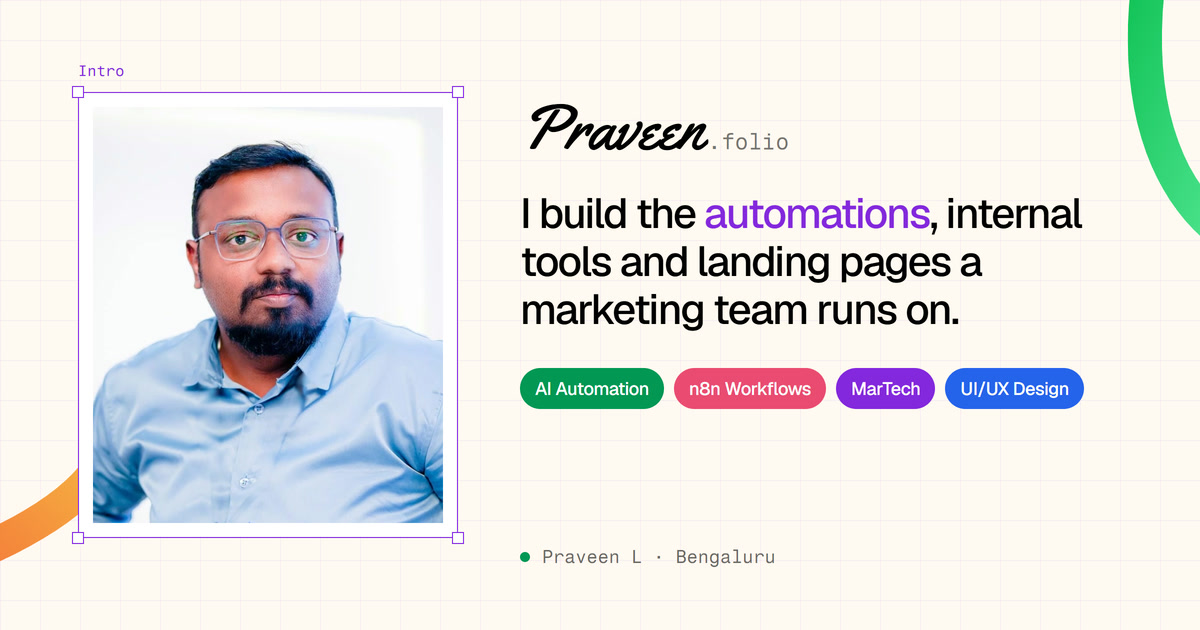
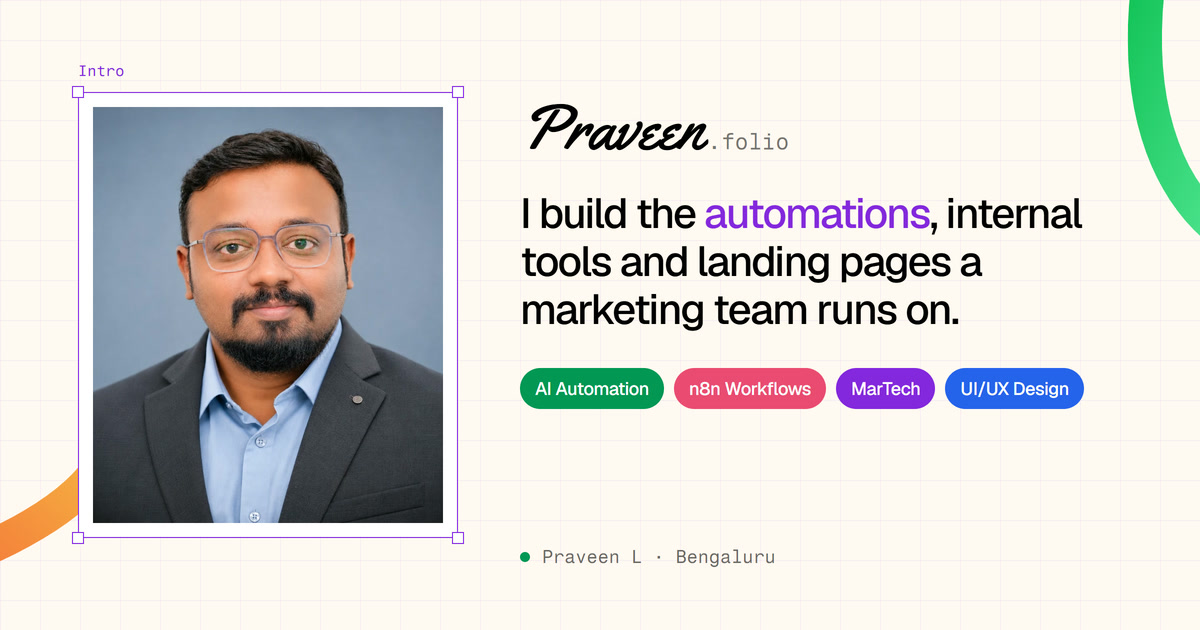
New professional headshot on hero, About and link preview

Changed region(s): [[0.0617, 0.1508, 0.37, 0.8444]]

diff --git a/project.html b/project.html
@@ -23,7 +23,7 @@
 <link rel="preconnect" href="https://fonts.googleapis.com"><link rel="preconnect" href="https://fonts.gstatic.com" crossorigin>
 <link href="https://fonts.googleapis.com/css2?family=Geist:wght@500&family=Inter:wght@400;500;600;700&family=Yellowtail&family=Fragment+Mono&display=swap" rel="stylesheet">
 <script src="https://unpkg.com/@phosphor-icons/web@2.1.1"></script>
-<link rel="stylesheet" href="css/style.css?v=202611102134">
+<link rel="stylesheet" href="css/style.css?v=202611102145">
 </head>
 <body data-page="work">
 <main class="detail"><div class="dwrap" id="main"></div></main>
@@ -33,8 +33,8 @@
 </div></section>
 <div id="foot"></div>
 <div class="lightbox" id="lb"><img alt=""></div>
-<script src="js/data.js?v=202611102134"></script>
-<script src="js/cards.js?v=202611102134"></script>
+<script src="js/data.js?v=202611102145"></script>
+<script src="js/cards.js?v=202611102145"></script>
 <script>
   const id = new URLSearchParams(location.search).get('p');
   const i = Math.max(0, PROJECTS.findIndex(x => x.id === id));
@@ -57,6 +57,6 @@
   document.getElementById('next').innerHTML = projectCard(PROJECTS[(i + 1) % PROJECTS.length], (i + 1) % PROJECTS.length); wireCardVideos();
 </script>
 <script src="https://unpkg.com/lenis@1.1.13/dist/lenis.min.js"></script>
-<script src="js/main.js?v=202611102134"></script>
+<script src="js/main.js?v=202611102145"></script>
 </body>
 </html>

diff --git a/marketing-os.html b/marketing-os.html
@@ -24,7 +24,7 @@
 <link rel="preconnect" href="https://fonts.googleapis.com"><link rel="preconnect" href="https://fonts.gstatic.com" crossorigin>
 <link href="https://fonts.googleapis.com/css2?family=Geist:wght@500&family=Inter:wght@400;500;600;700&family=Yellowtail&family=Fragment+Mono&display=swap" rel="stylesheet">
 <script src="https://unpkg.com/@phosphor-icons/web@2.1.1"></script>
-<link rel="stylesheet" href="css/style.css?v=202611102134">
+<link rel="stylesheet" href="css/style.css?v=202611102145">
 <style>
   .mos .dwrap{width:min(1080px,calc(100% - 32px))}
   .mos .narrow{max-width:750px}
@@ -73,8 +73,8 @@
 </div></section>
 <div id="foot"></div>
 <div class="lightbox" id="lb"><img alt=""></div>
-<script src="js/data.js?v=202611102134"></script>
-<script src="js/cards.js?v=202611102134"></script>
+<script src="js/data.js?v=202611102145"></script>
+<script src="js/cards.js?v=202611102145"></script>
 <script>
   const p = PROJECTS.find(x => x.id === 'marketing-os');
   const S = n => `assets/mos/${n}.jpg`;
@@ -167,6 +167,6 @@
   document.getElementById('next').innerHTML = projectCard(PROJECTS[(i + 1) % PROJECTS.length], (i + 1) % PROJECTS.length); wireCardVideos();
 </script>
 <script src="https://unpkg.com/lenis@1.1.13/dist/lenis.min.js"></script>
-<script src="js/main.js?v=202611102134"></script>
+<script src="js/main.js?v=202611102145"></script>
 </body>
 </html>

diff --git a/projects.html b/projects.html
@@ -6,7 +6,7 @@
 <link rel="preconnect" href="https://fonts.googleapis.com"><link rel="preconnect" href="https://fonts.gstatic.com" crossorigin>
 <link href="https://fonts.googleapis.com/css2?family=Geist:wght@500&family=Inter:wght@400;500;600;700&family=Yellowtail&family=Fragment+Mono&display=swap" rel="stylesheet">
 <script src="https://unpkg.com/@phosphor-icons/web@2.1.1"></script>
-<link rel="stylesheet" href="css/style.css?v=202611102134">
+<link rel="stylesheet" href="css/style.css?v=202611102145">
 <title>Projects | Praveen L</title>
 <!-- share preview -->
 <meta property="og:type" content="website">
@@ -38,10 +38,10 @@
   <div class="wrap"><div class="plist" id="plist"></div></div>
 </section>
 <div id="foot"></div>
-<script src="js/data.js?v=202611102134"></script>
-<script src="js/cards.js?v=202611102134"></script>
+<script src="js/data.js?v=202611102145"></script>
+<script src="js/cards.js?v=202611102145"></script>
 <script>document.getElementById('plist').innerHTML = PROJECTS.map(projectCard).join(''); wireCardVideos();</script>
 <script src="https://unpkg.com/lenis@1.1.13/dist/lenis.min.js"></script>
-<script src="js/main.js?v=202611102134"></script>
+<script src="js/main.js?v=202611102145"></script>
 </body>
 </html>

diff --git a/index.html b/index.html
@@ -24,7 +24,7 @@
 <link rel="preconnect" href="https://fonts.googleapis.com"><link rel="preconnect" href="https://fonts.gstatic.com" crossorigin>
 <link href="https://fonts.googleapis.com/css2?family=Geist:wght@500&family=Inter:wght@400;500;600;700&family=Yellowtail&family=Fragment+Mono&display=swap" rel="stylesheet">
 <script src="https://unpkg.com/@phosphor-icons/web@2.1.1"></script>
-<link rel="stylesheet" href="css/style.css?v=202611102134">
+<link rel="stylesheet" href="css/style.css?v=202611102145">
 </head>
 <body data-page="home">
 
@@ -154,8 +154,8 @@
 
 <div id="foot"></div>
 
-<script src="js/data.js?v=202611102134"></script>
-<script src="js/cards.js?v=202611102134"></script>
+<script src="js/data.js?v=202611102145"></script>
+<script src="js/cards.js?v=202611102145"></script>
 <script>
   const pad = n => String(n).padStart(2, '0');
   document.getElementById('nums').innerHTML = STATS.map(([v, l, r], i) => `
@@ -184,6 +184,6 @@
     <div class="a"><div><p>${a}</p></div></div></div>`).join('');
 </script>
 <script src="https://unpkg.com/lenis@1.1.13/dist/lenis.min.js"></script>
-<script src="js/main.js?v=202611102134"></script>
+<script src="js/main.js?v=202611102145"></script>
 </body>
 </html>

diff --git a/about.html b/about.html
@@ -24,7 +24,7 @@
 <link rel="preconnect" href="https://fonts.googleapis.com"><link rel="preconnect" href="https://fonts.gstatic.com" crossorigin>
 <link href="https://fonts.googleapis.com/css2?family=Geist:wght@500&family=Inter:wght@400;500;600;700&family=Yellowtail&family=Fragment+Mono&display=swap" rel="stylesheet">
 <script src="https://unpkg.com/@phosphor-icons/web@2.1.1"></script>
-<link rel="stylesheet" href="css/style.css?v=202611102134">
+<link rel="stylesheet" href="css/style.css?v=202611102145">
 </head>
 <body data-page="about">
 
@@ -83,7 +83,7 @@
 
 <div id="foot"></div>
 
-<script src="js/data.js?v=202611102134"></script>
+<script src="js/data.js?v=202611102145"></script>
 <script>
   const pad = n => String(n).padStart(2, '0');
   document.getElementById('nums').innerHTML = STATS.map(([v, l, r], i) => `
@@ -112,6 +112,6 @@
     <div class="ecard sel rv"><i class="ph-fill ${ic}"></i><b>${t}</b><span>${w}</span><em>${y}</em></div>`).join('');
 </script>
 <script src="https://unpkg.com/lenis@1.1.13/dist/lenis.min.js"></script>
-<script src="js/main.js?v=202611102134"></script>
+<script src="js/main.js?v=202611102145"></script>
 </body>
 </html>
